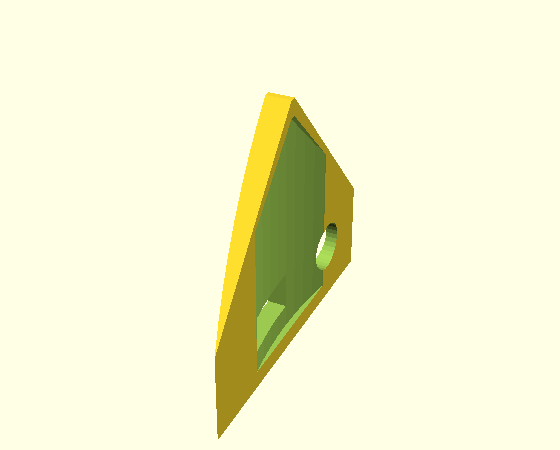
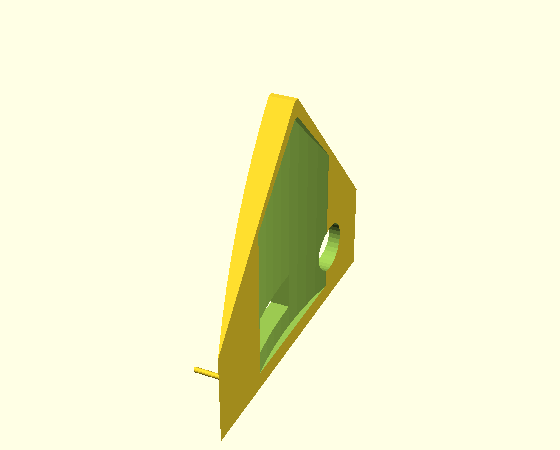
guide: assembly renders — step-by-step, exploded, tract sections, bayonet
Adds two debug parts and a full render pack showing HOW form 1a goes together.

New parts in bulk_hopper_module.scad:
  · step (0..9) — cumulative assembly in the §3 HANDOFF order (motor→wheel→housing
    →electronics→shroud-snap→weigh→cap+cone→shell-bayonet→ring+lid). One render per
    value = a picture-per-step build instruction.
  · bay_zoom — the J2 bayonet, pre-rotated so the LOCKED tab lands in view, wedge+slab
    zoom onto one tab-in-slot. (Best viewed live in the GUI; 8 mm tabs on Ø160 are small
    from a fixed angle. The bayonet's function is proven numerically in _chk.scad, not
    by a render: entry 0 tris, lip roof over the locked tab 24 tris.)

preview/assembly/ (25 renders, all preview-mode — CGAL --render drops color()):
  step_0..9, x_{base,tower,funnel}_{iso,front}, full_cut_iso, base_cut, nest_check,
  food_path (shows the tray back RAMP), product_{25,115,205,295} turntable.
Plus a README documenting each shot + how to regenerate.

HANDOFF.md: §1 file table points at preview/assembly; §3 gains a step-by-step image
grid + the exploded views; regenerate note added.

Method note recorded: running the render pack as ONE backgrounded script silently
produced nothing — parallel xvfb-run instances fight over the X display. Ran
synchronously instead.

Also regenerated the changed gallery part renders (shell/base/tray/cap/panel now
carry the bayonet tabs, ramp, detents, locator).

Claude-Session: https://claude.ai/code/session_015aJGR9h3AW5dAqM7hxorCQ

Changed region(s): [[0.3339, 0.2178, 0.6375, 0.9644], [0.425, 0.8711, 0.4554, 0.9333]]

diff --git a/hardware/HANDOFF.md b/hardware/HANDOFF.md
@@ -1,6 +1,7 @@
 # AiPetFeeder — handoff (form 1a)
 
-Стан на 2026-07-13, гілка `feature/feeder-compact-vibro`, останній коміт `3a606ac`.
+Стан на 2026-07-13, гілка `feature/feeder-compact-vibro`, останній коміт `72083c6`
+(самофіксні стики: байонет + snap-детенти).
 Документ для передачі іншому агенту: що це, з чого складається, які **числа не можна
 чіпати не порахувавши**, і на які граблі я вже наступив.
 
@@ -31,7 +32,8 @@
 | `cad/openscad/paddle_wheel_module.scad` | Механізм: `wheel`, `housing`, `axle` |
 | `cad/openscad/gallery_views.scad` | Розрізи/галерея (не друкується) |
 | `cad/openscad/archive/chassis_module.scad` | **DEPRECATED**, не використовувати |
-| `cad/openscad/preview/gallery/` | 41 рендер (кожна деталь + розрізи) |
+| `cad/openscad/preview/gallery/` | рендери кожної деталі + розрізи |
+| `cad/openscad/preview/assembly/` | **як збирається**: step 0–9, розібрані види, розрізи тракту, turntable |
 
 ### Осі та z-площини
 
@@ -111,41 +113,87 @@ HX711 · ESP32 devkit (~52×28) · A4988/DRV8825 · DC-jack Ø8 · USB 12×6 ·
 
 ```
                     lid
-                     │  (стиковий замок)
+                     │  стиковий замок
                     ring  ×N
                      │
       spider ──►  shell + cone
-                     │   cone: пробка горла → комірець cap_plate
+                     │   cone: пробка горла → комірець cap_plate (+ детент J4)
                   cap_plate
-                     │   паз знизу ← верхня стінка housing (на 3.5 мм)
+                     │   паз знизу ← верхня стінка housing (3.5 мм, + детент J4)
                   housing
-                     │   виток підлоги ← КОМІРЕЦЬ диска (ключ від прокручування)
-   wheel ──────► base_hopper (ДИСК)
+                     │   виток підлоги ← КОМІРЕЦЬ диска (ключ + біди J3 = клацає)
+   wheel ──────► base_hopper (ДИСК)   [колесо тримає cap зверху, зазор 1 мм — J1]
    (на вал)          │   snap-спігот + −X ключ
                  base_motor (ОБИЧАЙКА)
+                     ▲   БАЙОНЕТ J2: 3 таби shell → 3 L-пази в замку бази (¼ оберту)
                      │
      NEMA17 ─── знизу крізь бор дна, 4×M3 у диск
      el_tray ── згори в 2 вертикальні рейки
-     el_panel ─ зсередини у вікно (фланець не дає випасти)
-     cell ───── на пʼєдестал (2×M4) → cell_platform (2×M4) → tray зверху
+     el_panel ─ зсередини у вікно (фланець + нібси J5 = не ходить)
+     cell ───── на пʼєдестал (2×M4) → cell_platform (локатор J6) → tray зверху
 ```
+
+Усі стики **самофіксні, без клею** — див. розділ 3a.
 
 ### Порядок збирання (жорсткий)
 
 1. **NEMA17 у диск** (`base_hopper`) знизу: пілот у заглиблення, 4×M3.
 2. **Колесо на вал** — Ø5 D-отвір, муфти немає.
-3. **Housing на диск** — комірець диска входить у виток підлоги = ключ.
-4. **Електроніка в обичайку** — `el_tray` згори в рейки, потім `el_panel` у вікно.
+3. **Housing на диск** — комірець диска входить у виток підлоги = ключ; **клацає** через біди J3.
+4. **Електроніка в обичайку** — `el_tray` згори в рейки, потім `el_panel` у вікно (**клац** нібсами J5).
 5. **Обичайка на диск** — snap клацає, −X ключ ловить орієнтацію.
-6. **Вага** — cell на пʼєдестал → `cell_platform` → `tray` зверху.
-7. **Кришка + конус** — `cap_plate` на housing, `cone` пробкою в його комірець.
-8. **Лійка** — `shell` на верх бази, `spider` усередину конуса.
+6. **Вага** — cell на пʼєдестал → `cell_platform` → `tray` у локатор J6.
+7. **Кришка + конус** — `cap_plate` **клацає** на housing (J4), `cone` пробкою в комірець (**клац** J4).
+8. **Лійка** — `shell` над конусом, опустити й **провернути ¼ оберту** → байонет J2 клацає в замок.
 9. **Банка + кришка** — `ring` ×N, `lid`.
 
 > **Крок 1 має бути ПЕРШИМ.** Щойно обичайка клацне на диск — до гвинтів мотора вже
 > не дістатись.
+> **Крок 8 — байонет:** опустити оболонку так, щоб таби ввійшли в вертикальні канали,
+> тоді провернути за годинниковою до клацання детента. Зняти — тільки зворотним ¼ оберту.
+
+### Покроково (рендери — `part="step"`, `step=0..9`)
+
+*Рендери в `preview/assembly/` згенеровано з коду цієї гілки; перегенерувати —
+див. `preview/assembly/README.md`.*
+
+| | | |
+|---|---|---|
+| **1. Мотор + диск**<br>![1](cad/openscad/preview/assembly/step_1.png) | **2. Колесо на вал**<br>![2](cad/openscad/preview/assembly/step_2.png) | **3. Housing**<br>![3](cad/openscad/preview/assembly/step_3.png) |
+| **4. Електроніка**<br>![4](cad/openscad/preview/assembly/step_4.png) | **5. Обичайка (snap)**<br>![5](cad/openscad/preview/assembly/step_5.png) | **6. Вага + лоток**<br>![6](cad/openscad/preview/assembly/step_6.png) |
+| **7. Кришка + конус**<br>![7](cad/openscad/preview/assembly/step_7.png) | **8. Лійка (байонет)**<br>![8](cad/openscad/preview/assembly/step_8.png) | **9. Банка + кришка**<br>![9](cad/openscad/preview/assembly/step_9.png) |
+
+Розібрані види (як роз'єднується): база / вежа / лійка
+
+| ![Вежа розібрана](cad/openscad/preview/assembly/x_tower_iso.png) | ![База](cad/openscad/preview/assembly/x_base_iso.png) | ![Лійка](cad/openscad/preview/assembly/x_funnel_iso.png) |
+|---|---|---|
 
 ---
+
+## 3a. 🔒 Самофіксні стики (без клею, без металу зверху)
+
+Нижня половина була позиційована жорстко; верхній стек був слизьким гравітаційним
+стосом. Ці вузли додають фіксацію — усі support-free, усі print-only.
+
+![Байонет вежа↔база](cad/openscad/preview/gallery/sec_bayonet.png)
+*J2 — оболонку піднято: у сірому замку бази видно L-паз (вертикальний вхід + горизонтальний хід).*
+
+| # | Стик | Що додано | Тримає |
+|---|---|---|---|
+| **J1** | колесо ↔ вал | **нічого не треба** — верх колеса (мішалка z80.5) вже під cap (z81.5), зазор 1 мм | не злазить з вала (зачеп 15.5 мм) |
+| **J2** | оболонка ↔ база | **байонет ¼ оберту**: 3 таби + 3 L-пази + ride-over детент | вежа не знімається без повороту |
+| **J3** | housing ↔ диск | 2 біди 0.35 на стінках `ar`-комірця | housing лишається при знятій лійці |
+| **J4** | cap↔housing, cone↔комірець | детенти 0.4 в пазу і в горловому комірці | підзбірка тримається в руці |
+| **J5** | сервісна панель | 2 нібси 0.4 в кромках + ямки у вікні | не провалюється ні всередину, ні назовні |
+| **J6** | лоток ↔ площадка | локатор-кільце 1 мм | лоток по центру, вага чесна |
+
+**J1 — не «полагоджено», а перевірено, що не треба.** Бриф казав зазор 4.5 мм і counterbore.
+Насправді верх колеса — не маточина (18), а центральна мішалка (z29→глоб. 80.5), і cap
+низ 81.5. Колесо **вже** захоплено з зазором 1 мм, контакт — бос біля осі (низьке тертя).
+**Не додавай counterbore.**
+
+Перевірено на ізольованій геометрії: таб байонета чисто проходить вхідний канал (0 tris
+перетину), а після повороту над ним є матеріал lip (24 tris) → не підніметься.
 
 ## 4. ⚠ Числа, які не можна чіпати наосліп
 
@@ -174,12 +222,18 @@ HX711 · ESP32 devkit (~52×28) · A4988/DRV8825 · DC-jack Ø8 · USB 12×6 ·
 | Межа | Значення | Запас зараз |
 |---|---|---|
 | `in` > мотор r21 | 23 | 2.0 |
-| `in` > заднього обода лотка | 23 vs x23 | 2.5 (лоток на `bowl_cx=98`) |
+| `in` > заднього обода лотка | 23 vs x23 | 0 (див. нижче) |
 | `out` < обода колеса (38.5) | 36 | 2.5 |
 | **кут** отвору < `hr_in` 40.8 | 39.2 | **1.6** |
 
 **Кут — це не край.** Отвір прямокутний: `hypot(out−2, hole_w/2−2)+2`.
 При `out = 38` кут лягає на **41.0** і **пробиває стінку housing**. Стеля — **37**.
+
+**Задня стінка лотка — рампа, а не запас.** Виток іде з x23, але внутрішня підлога
+лотка не може початись раніше x25.5 (зовн. зад x23 + стінка 2.5). Посунути лоток назад
+не можна (зад впритул до мотора r21), виток уперед — заб'є бор. Тому **задня стінка лотка
+занижена й має 45° рампу всередину** (`tray_ramp_a/tray_ramp_h`) — корм із неї зсипається
+в лоток, а не сидить на полиці. НЕ повертай стирту цифру «запас 2.5».
 
 ### 4.2 Ніша НЕ СМІЄ доходити до диска
 
@@ -238,6 +292,16 @@ openscad -o /dev/null -D 'part="wheel"' paddle_wheel_module.scad 2>&1 | grep ECH
 - **Прев'ю бреше про різьбу.** `linear_extrude(twist)` як **додане** тіло рендериться в
   прев'ю, але **зникає на F6/CGAL-експорті**. Завжди перевіряй експортований STL
   перерізом у зоні різьби.
+- **`include<>` резолвиться відносно ФАЙЛУ-ІНКЛЮДЕРА, не cwd.** Тому чек-скрипт у `/tmp`
+  отримує **undef усі змінні** з модуля, і кожен `intersection()` виходить порожнім —
+  що читається як «чисто», хоча нічого не рахувалось. Тримай чеки поруч із модулем
+  (`_chk.scad`). Це знецінило один мій попередній набір «7 перевірок чисто».
+- **Змінна = f(іншої змінної) → порядок має значення.** `bay_tab_ang = bay_tab_w/...`,
+  визначена **вище** за `bay_tab_w`, дала `undef`, і `rotate_extrude(angle=undef)`
+  намалював **повне кільце** замість дуги (таб байонета став суцільним обручем). Похідні —
+  завжди ПІСЛЯ параметрів, від яких залежать.
+- **`hull()` двох `rotate_extrude`-дуг лишає сміття тесселяції**, що читається як колізія.
+  Роби таб одним `rotate_extrude` трапеції-полігону.
 
 ### Слайсер (OrcaSlicer)
 
@@ -268,6 +332,9 @@ openscad -o /dev/null -D 'part="wheel"' paddle_wheel_module.scad 2>&1 | grep ECH
   вручну в двох файлах. Варто винести.
 - **Пʼєдестал cell** підходить до NEMA17 на **1 мм** (x22 vs корпус x21). Перетину
   немає, але допуск тонкий.
+- **Самофікси не калібровані на реальному пластику.** Байонет-детент 0.35, біди J3 0.35,
+  детенти J4/J5 0.4 — це стартові значення; перший друк покаже, чи клацає з потрібним
+  зусиллям. Геометрично перевірено (таб проходить / замок тримає), тактильно — ні.
 - Нічого з цього **не друкувалось у металі** — форма 1a ще не надрукована жодного разу.
 
 ---

diff --git a/hardware/cad/openscad/preview/assembly/README.md b/hardware/cad/openscad/preview/assembly/README.md
@@ -1,0 +1,36 @@
+# preview/assembly — «як збирається AiPetFeeder» (форма 1a)
+
+Рендери генеруються **без `--render`** (preview-режим — інакше злітають кольори).
+Джерело: `bulk_hopper_module.scad` + `gallery_views.scad`.
+
+## Що де
+
+| Файли | Що показують | part / view |
+|---|---|---|
+| `step_0..9.png` | Покрокова збірка, кумулятивно (порядок §3 HANDOFF) | `part="step"` `step=N` |
+| `x_base_*`, `x_tower_*`, `x_funnel_*` | Розібрані види (iso + фронт) | `part="x_base"` … |
+| `full_cut_iso.png` | Вертикальний розріз вежі (housing↔cap↔cone, колесо під cap) | `part="full_cut"` |
+| `food_path.png` | Шлях корму до лотка + 45° рампа задньої стінки | `view="food"` `cut="yhalf"` |
+| `base_cut.png` | База в розрізі: дно, cell, пʼєдестал, лоток, відсік | `part="base_cut"` |
+| `nest_check.png` | Верхня стінка housing у пазу кришки | `part="nest_check"` |
+| `bayonet_iso.png` | J2 байонет, зум на locked-таб | `part="bay_zoom"` |
+| `product_25/115/205/295.png` | Готовий виріб, turntable | `part="full"` |
+
+## Перегенерувати
+
+```sh
+cd hardware/cad/openscad
+# крок
+xvfb-run -a openscad -o preview/assembly/step_5.png --imgsize=800,1000 --viewall --autocenter \
+  --camera=0,0,0,60,0,30,0 -D 'part="step"' -D 'step=5' bulk_hopper_module.scad
+# шлях корму (yhalf лишає y<0 → дивись з +Y: rz≈195)
+xvfb-run -a openscad -o preview/assembly/food_path.png --imgsize=1000,820 --viewall --autocenter \
+  --camera=0,0,0,76,0,195,0 -D 'view="food"' -D 'cut="yhalf"' gallery_views.scad
+```
+
+> **НЕ запускай пакет у фоні паралельно** — кілька `xvfb-run` б'ються за X-дисплей і
+> тихо падають (файли не створюються). Ганяй синхронно.
+>
+> **`bay_zoom`** найкраще дивитись інтерактивно в OpenSCAD GUI (крутити): таби 8 мм на
+> Ø160 з фіксованого ракурсу дрібні. Функціональність байонета доведена ЧИСЛОМ у `_chk.scad`
+> (вхід 0 tris, дах над locked-табом 24 tris), не картинкою.
